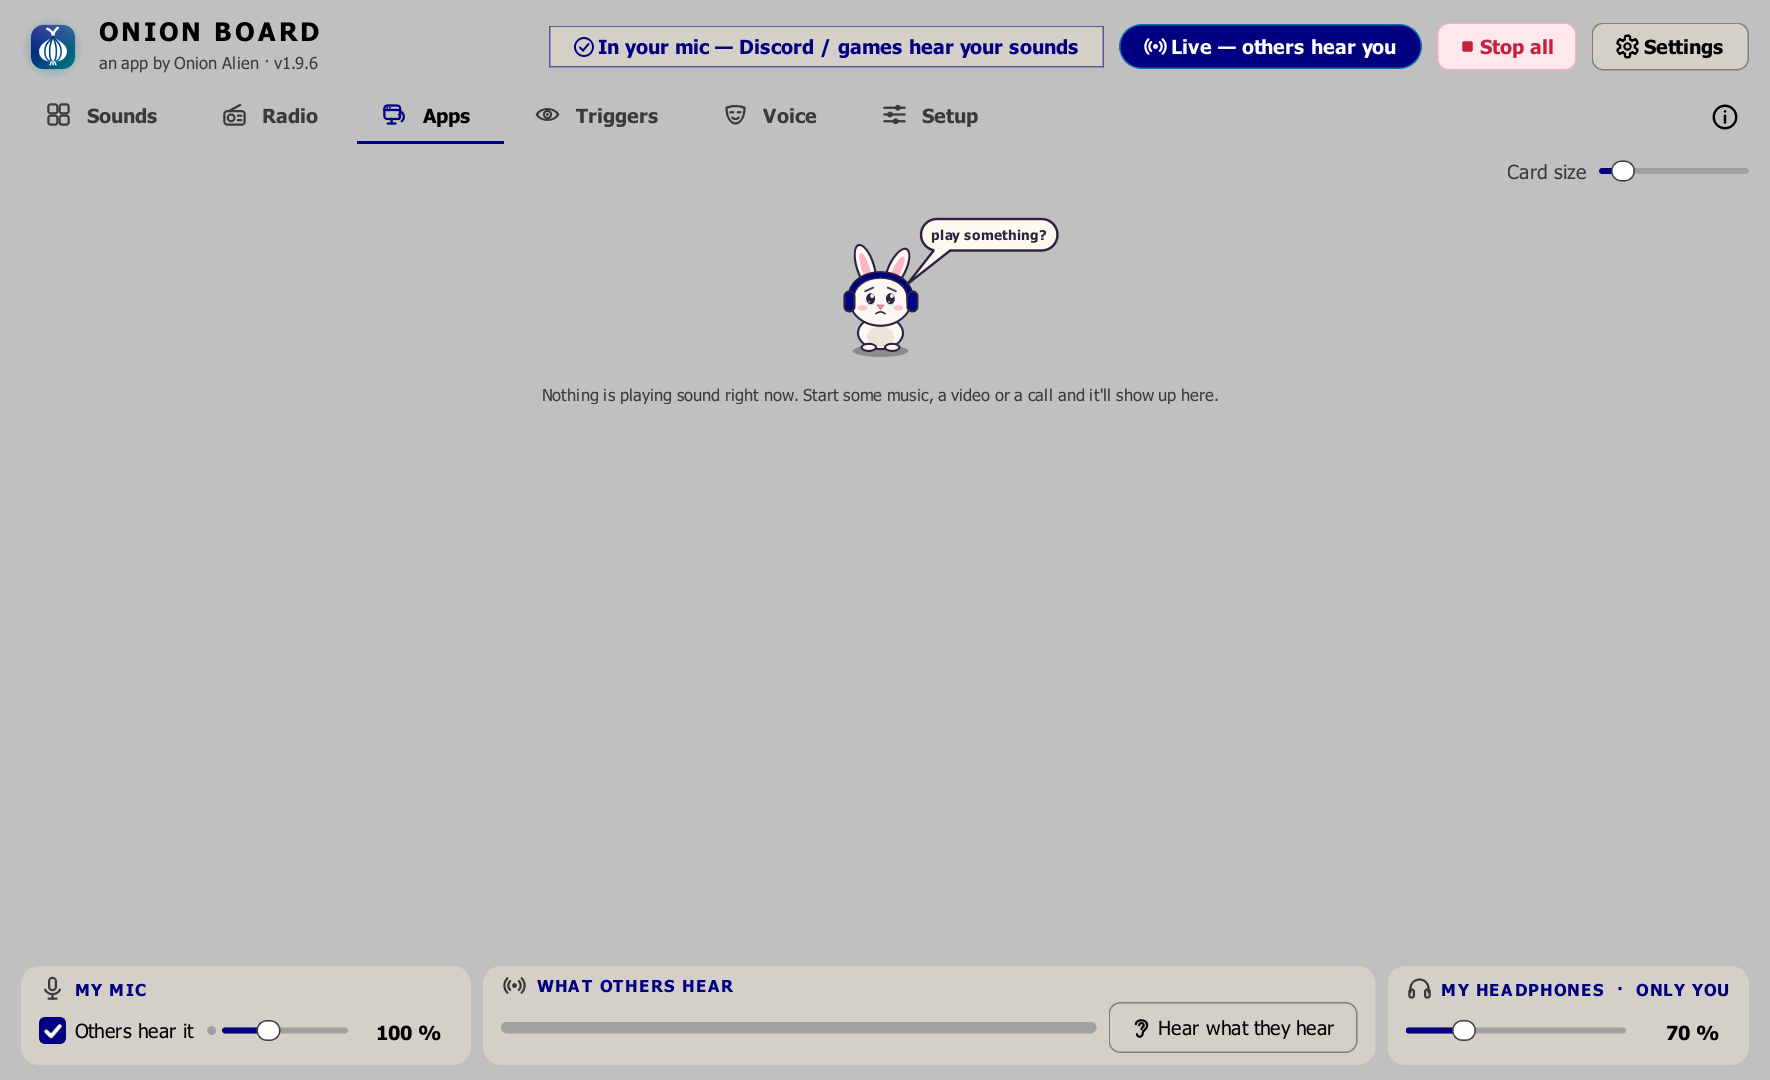
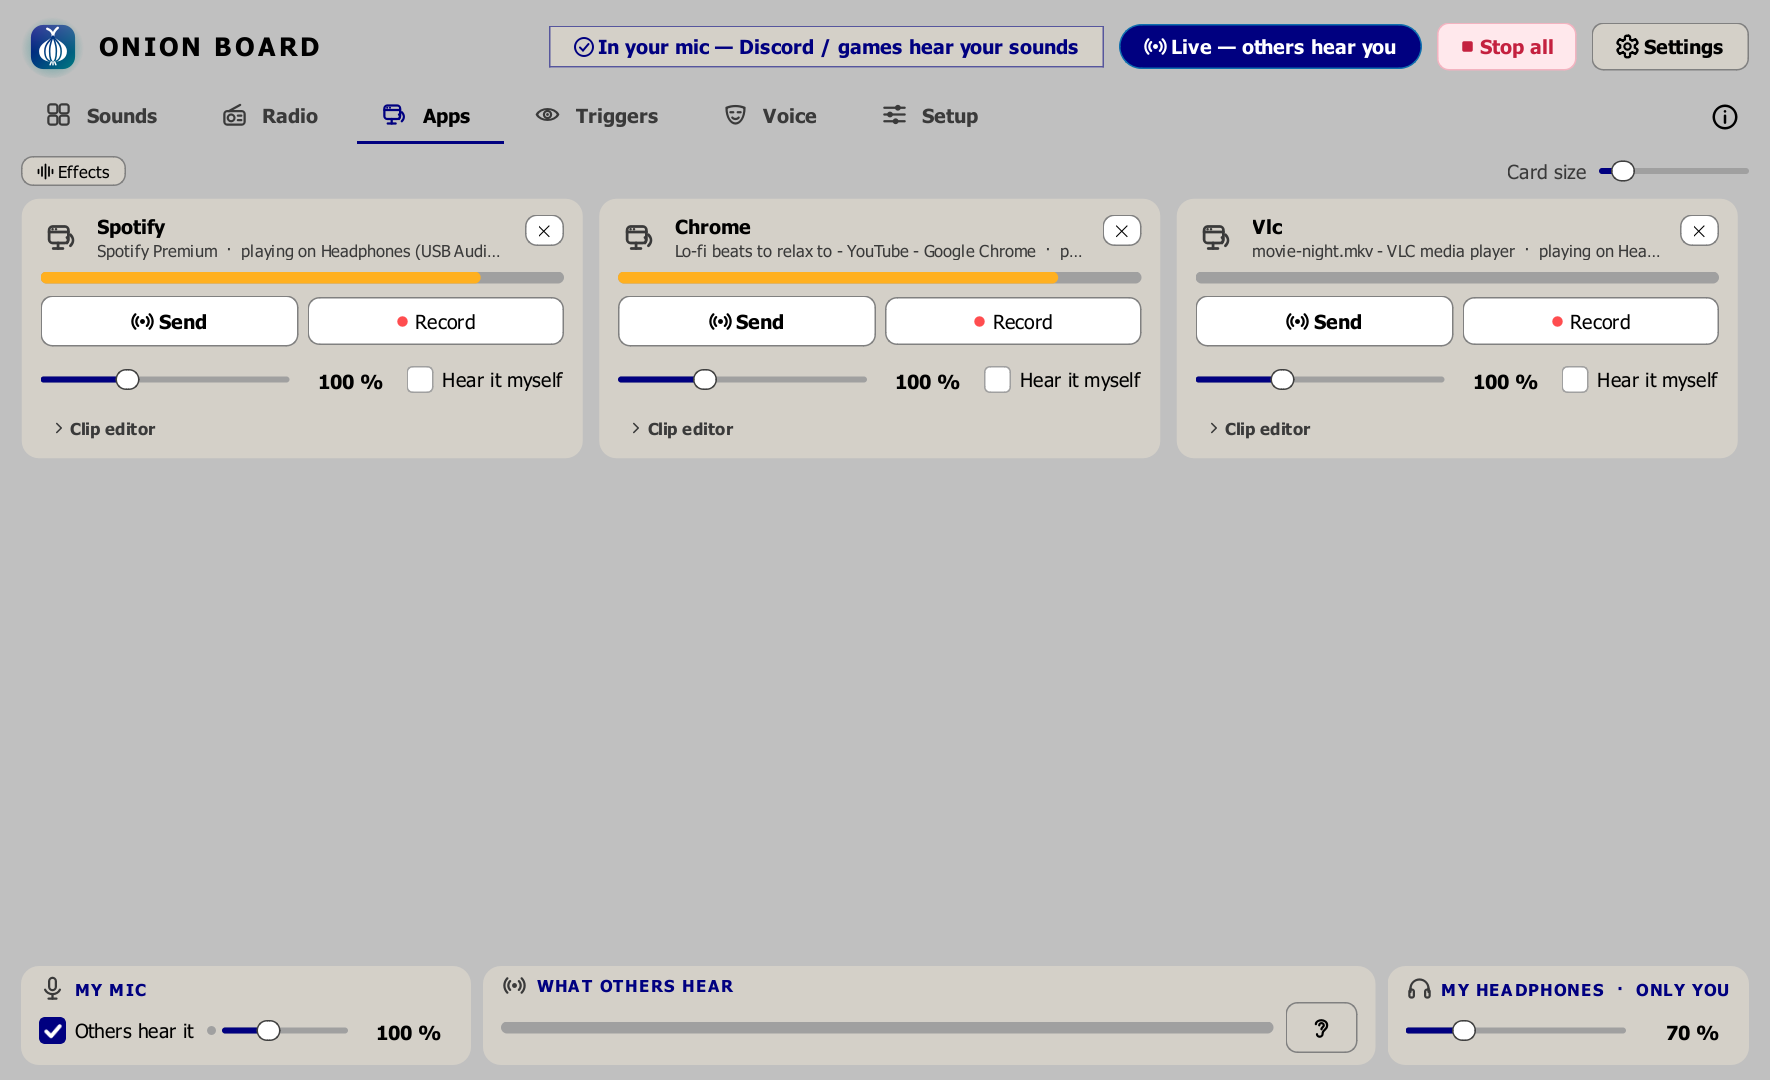
Docs: 1.9.22 release line, VirusTotal scan (68/68 clean), fresh screenshots
The README, website and guide pages showed 1.9.20 and pictures from around 1.9.6.
screenshots.py had fallen behind the app: the fake program list now takes
list_apps' arguments, and the Triggers tab is loaded before it's photographed (the
add-on loads lazily now).

diff --git a/docs/index.html b/docs/index.html
@@ -7,7 +7,7 @@
 <meta name="description" content="Free Windows soundboard: play sounds into Discord and games through your mic. In-game hotkeys, an overlay, effects, a voice changer, text-to-speech, instant replay, and screen triggers that play a sound when something shows up, like YOU DIED.">
 <meta property="og:title" content="Onion Board: free soundboard for Discord and games">
 <meta property="og:description" content="Play sounds through your mic in Discord and games. Voice changer, text-to-speech, and screen triggers that play a sound when you die.">
-<meta property="og:image" content="https://onion-alien.github.io/onion-board/screenshots/sounds.png?v=5d4d4efc">
+<meta property="og:image" content="https://onion-alien.github.io/onion-board/screenshots/sounds.png?v=9d6180e1">
 <meta property="og:type" content="website">
 <meta name="twitter:card" content="summary_large_image">
 <link rel="icon" href="favicon.ico" sizes="16x16 32x32 48x48">
@@ -22,7 +22,7 @@
  "description": "Free Windows soundboard: play sounds into Discord and games through your mic, with a voice changer, text-to-speech, in-game hotkeys and screen triggers.",
  "url": "https://onion-alien.github.io/onion-board/",
  "downloadUrl": "https://github.com/Onion-Alien/onion-board/releases/latest/download/OnionBoardSetup.exe",
- "screenshot": "https://onion-alien.github.io/onion-board/screenshots/sounds.png?v=5d4d4efc",
+ "screenshot": "https://onion-alien.github.io/onion-board/screenshots/sounds.png?v=9d6180e1",
  "offers": {"@type": "Offer", "price": "0", "priceCurrency": "USD"}}
 </script>
 <style>
@@ -134,11 +134,11 @@
       your friends in Discord or your game hear it through your mic.</p>
     <a class="dl" href="https://github.com/Onion-Alien/onion-board/releases/latest/download/OnionBoardSetup.exe" data-goatcounter-click="download-home-top">⬇ Download for Windows</a>
     <!-- release -->
-    <p class="small">Version 1.9.20 · Windows 10 / 11 · free, no account, no ads, anonymous usage count you can switch off<br>
-      <a href="https://www.virustotal.com/gui/file/8093c89458b7ecfcccd5a4122b1ae0ce53488394f59aa388e06b69c371783b1a">VirusTotal: 69 of 69 clean</a> ·
+    <p class="small">Version 1.9.22 · Windows 10 / 11 · free, no account, no ads, anonymous usage count you can switch off<br>
+      <a href="https://www.virustotal.com/gui/file/4c873ef6a062379d4a35307041f09d009a6670a821d5a23e518ef452f2518283">VirusTotal: 68 of 68 clean</a> ·
       <a href="https://github.com/Onion-Alien/onion-board/releases/latest">what's new</a></p>
     <!-- /release -->
-    <div class="stage3d"><img class="hero" src="screenshots/sounds.png?v=5d4d4efc" width="1770" height="1080" alt="Onion Board's sound pads"></div>
+    <div class="stage3d"><img class="hero" src="screenshots/sounds.png?v=9d6180e1" width="1770" height="1080" alt="Onion Board's sound pads"></div>
   </header>
 
   <h2>What it does</h2>
@@ -157,10 +157,10 @@
 
   <h2>A closer look</h2>
   <div class="grid shots reveal">
-    <figure><img src="screenshots/voice.png?v=c7aa5887" alt="The Voice tab" loading="lazy"><figcaption>Voice changer and text-to-speech</figcaption></figure>
-    <figure><img src="screenshots/triggers.png?v=74911d4a" alt="The Triggers tab" loading="lazy"><figcaption>Triggers: a sound when something shows up in your game</figcaption></figure>
-    <figure><img src="screenshots/apps.png?v=8fc8871d" alt="The Apps tab" loading="lazy"><figcaption>Send one program's sound to your friends</figcaption></figure>
-    <figure><img src="screenshots/setup.png?v=b52be90b" alt="The Setup tab" loading="lazy"><figcaption>Setup shows at a glance whether they can hear you</figcaption></figure>
+    <figure><img src="screenshots/voice.png?v=51808369" alt="The Voice tab" loading="lazy"><figcaption>Voice changer and text-to-speech</figcaption></figure>
+    <figure><img src="screenshots/triggers.png?v=14e7c16b" alt="The Triggers tab" loading="lazy"><figcaption>Triggers: a sound when something shows up in your game</figcaption></figure>
+    <figure><img src="screenshots/apps.png?v=3c458fb0" alt="The Apps tab" loading="lazy"><figcaption>Send one program's sound to your friends</figcaption></figure>
+    <figure><img src="screenshots/setup.png?v=d1c585c2" alt="The Setup tab" loading="lazy"><figcaption>Setup shows at a glance whether they can hear you</figcaption></figure>
   </div>
 
   <h2>Get started</h2>

diff --git a/docs/soundboard-without-virtual-cable/index.html b/docs/soundboard-without-virtual-cable/index.html
@@ -7,7 +7,7 @@
 <meta name="description" content="Play sounds through your mic on Windows without installing VB-Cable or Voicemeeter. Onion Board is a free soundboard that puts sounds straight into the mic Discord and games already use.">
 <meta property="og:title" content="A soundboard that needs no virtual cable">
 <meta property="og:description" content="Free Windows soundboard: sounds go straight into the mic you already use. No VB-Cable, no Voicemeeter, nothing to pick in Discord.">
-<meta property="og:image" content="https://onion-alien.github.io/onion-board/screenshots/setup.png?v=b52be90b">
+<meta property="og:image" content="https://onion-alien.github.io/onion-board/screenshots/setup.png?v=d1c585c2">
 <meta property="og:type" content="article">
 <meta name="twitter:card" content="summary_large_image">
 <link rel="icon" href="../favicon.ico" sizes="16x16 32x32 48x48">
@@ -45,7 +45,7 @@
   <p>One click, <b>Put my sounds straight into my mic</b>, adds a small audio effect to your mic in
     Windows' own audio engine (Windows asks for permission once). From then on, anything that listens
     to your mic hears your sounds mixed in. Nothing to pick in Discord, nothing to change in your games.</p>
-  <img src="../screenshots/setup.png?v=b52be90b" alt="Onion Board's Setup tab showing the sounds going into the mic" loading="lazy" width="1100" height="736">
+  <img src="../screenshots/setup.png?v=d1c585c2" alt="Onion Board's Setup tab showing the sounds going into the mic" loading="lazy" width="1100" height="736">
   <p>It backs up your mic's settings first, and puts them back when you switch it off or uninstall.</p>
 
   <h2>Setup, step by step</h2>

diff --git a/docs/discord-soundboard/index.html b/docs/discord-soundboard/index.html
@@ -7,7 +7,7 @@
 <meta name="description" content="Play any sound or song through your mic in Discord voice chat, with hotkeys that work in-game. Free Windows soundboard, no Nitro, no length limit. Step-by-step setup.">
 <meta property="og:title" content="How to play sounds through your mic in Discord">
 <meta property="og:description" content="Free Windows soundboard: any sound, any length, hotkeys that work in-game. Setup takes two minutes.">
-<meta property="og:image" content="https://onion-alien.github.io/onion-board/screenshots/sounds.png?v=5d4d4efc">
+<meta property="og:image" content="https://onion-alien.github.io/onion-board/screenshots/sounds.png?v=9d6180e1">
 <meta property="og:type" content="article">
 <meta name="twitter:card" content="summary_large_image">
 <link rel="icon" href="../favicon.ico" sizes="16x16 32x32 48x48">
@@ -56,7 +56,7 @@
       or use push-to-talk. Onion Board reads these settings and shows a bar when one is in the way.</li>
     <li>Drag sound files onto the Onion Board window and double-click a pad. Everyone in the call hears it.</li>
   </ol>
-  <img src="../screenshots/sounds.png?v=5d4d4efc" alt="Onion Board's sound pads" loading="lazy" width="1100" height="736">
+  <img src="../screenshots/sounds.png?v=9d6180e1" alt="Onion Board's sound pads" loading="lazy" width="1100" height="736">
 
   <h2>Play sounds while you're in a game</h2>
   <p>Right-click a pad and give it a <b>hotkey</b>. Hotkeys work even while a fullscreen game has

diff --git a/docs/play-sounds-through-mic/index.html b/docs/play-sounds-through-mic/index.html
@@ -7,7 +7,7 @@
 <meta name="description" content="How to play sounds and music through your microphone on Windows so others hear them in Discord, games and calls, without a virtual cable. Free, step by step.">
 <meta property="og:title" content="How to play sounds through your mic">
 <meta property="og:description" content="Play sounds and music through your mic on Windows, free, no virtual cable.">
-<meta property="og:image" content="https://onion-alien.github.io/onion-board/screenshots/setup.png?v=b52be90b">
+<meta property="og:image" content="https://onion-alien.github.io/onion-board/screenshots/setup.png?v=d1c585c2">
 <meta property="og:type" content="article">
 <meta name="twitter:card" content="summary_large_image">
 <link rel="icon" href="../favicon.ico" sizes="16x16 32x32 48x48">
@@ -33,7 +33,7 @@
   <p>Install a soundboard that mixes sounds into your mic. Onion Board does it with one click and no
     virtual cable: it adds a small audio effect to your mic in Windows' own audio engine, so every app
     that listens to your mic hears your voice and your sounds together.</p>
-  <img src="../screenshots/setup.png?v=b52be90b" alt="Onion Board's Setup tab showing sounds going into the mic" loading="lazy" width="1100" height="736">
+  <img src="../screenshots/setup.png?v=d1c585c2" alt="Onion Board's Setup tab showing sounds going into the mic" loading="lazy" width="1100" height="736">
 
   <h2>Step by step</h2>
   <ol>

diff --git a/docs/free-soundpad-alternative/index.html b/docs/free-soundpad-alternative/index.html
@@ -7,7 +7,7 @@
 <meta name="description" content="Looking for a free alternative to Soundpad or Voicemod? Onion Board is a free Windows soundboard with a voice changer, text-to-speech, in-game hotkeys and screen triggers. No account, no ads.">
 <meta property="og:title" content="A free Soundpad and Voicemod alternative">
 <meta property="og:description" content="Free Windows soundboard with a voice changer, text-to-speech, in-game hotkeys and screen triggers.">
-<meta property="og:image" content="https://onion-alien.github.io/onion-board/screenshots/sounds.png?v=5d4d4efc">
+<meta property="og:image" content="https://onion-alien.github.io/onion-board/screenshots/sounds.png?v=9d6180e1">
 <meta property="og:type" content="article">
 <meta name="twitter:card" content="summary_large_image">
 <link rel="icon" href="../favicon.ico" sizes="16x16 32x32 48x48">
@@ -69,7 +69,7 @@
     banner or a kill icon, and it plays a sound the moment that picture shows up. Set a sad
     trombone for every death and never press a key. It watches the game's own window, works
     behind other windows, and runs entirely on your PC.</p>
-  <img src="../screenshots/triggers.png?v=74911d4a" alt="Onion Board's Triggers tab" loading="lazy" width="1100" height="736">
+  <img src="../screenshots/triggers.png?v=14e7c16b" alt="Onion Board's Triggers tab" loading="lazy" width="1100" height="736">
 
   <h2>Switching over</h2>
   <ol>

diff --git a/docs/resanance-alternative/index.html b/docs/resanance-alternative/index.html
@@ -7,7 +7,7 @@
 <meta name="description" content="Looking for a Resanance alternative? Onion Board is a free Windows soundboard that imports your Resanance sounds and hotkeys in one click and plays them through your mic with no virtual cable.">
 <meta property="og:title" content="A Resanance alternative that imports your board">
 <meta property="og:description" content="Free Windows soundboard: your Resanance sounds and hotkeys come over in one click.">
-<meta property="og:image" content="https://onion-alien.github.io/onion-board/screenshots/sounds.png?v=5d4d4efc">
+<meta property="og:image" content="https://onion-alien.github.io/onion-board/screenshots/sounds.png?v=9d6180e1">
 <meta property="og:type" content="article">
 <meta name="twitter:card" content="summary_large_image">
 <link rel="icon" href="../favicon.ico" sizes="16x16 32x32 48x48">
@@ -45,7 +45,7 @@
     <li><b>Add sounds from search:</b> YouTube, SoundCloud and Myinstants, one click to keep one as a pad.</li>
     <li><b>Screen triggers:</b> play a sound when something shows up in your game, like "YOU DIED".</li>
   </ul>
-  <img src="../screenshots/sounds.png?v=5d4d4efc" alt="Onion Board's Sounds tab with pads" loading="lazy" width="1100" height="736">
+  <img src="../screenshots/sounds.png?v=9d6180e1" alt="Onion Board's Sounds tab with pads" loading="lazy" width="1100" height="736">
 
   <h2>Switching over</h2>
   <ol>

diff --git a/docs/exp-soundboard-alternative/index.html b/docs/exp-soundboard-alternative/index.html
@@ -7,7 +7,7 @@
 <meta name="description" content="Looking for an EXP Soundboard alternative? Onion Board is a free Windows soundboard that imports your EXP sounds and hotkeys in one click, needs no Java and no virtual cable.">
 <meta property="og:title" content="An EXP Soundboard alternative that imports your board">
 <meta property="og:description" content="Free Windows soundboard: no Java, no virtual cable, your EXP board comes over in one click.">
-<meta property="og:image" content="https://onion-alien.github.io/onion-board/screenshots/sounds.png?v=5d4d4efc">
+<meta property="og:image" content="https://onion-alien.github.io/onion-board/screenshots/sounds.png?v=9d6180e1">
 <meta property="og:type" content="article">
 <meta name="twitter:card" content="summary_large_image">
 <link rel="icon" href="../favicon.ico" sizes="16x16 32x32 48x48">
@@ -44,7 +44,7 @@
     <li><b>Add sounds from search:</b> YouTube, SoundCloud and Myinstants.</li>
     <li><b>Updates itself</b> when a new version is out (you click Update now).</li>
   </ul>
-  <img src="../screenshots/sounds.png?v=5d4d4efc" alt="Onion Board's Sounds tab with pads" loading="lazy" width="1100" height="736">
+  <img src="../screenshots/sounds.png?v=9d6180e1" alt="Onion Board's Sounds tab with pads" loading="lazy" width="1100" height="736">
 
   <h2>Switching over</h2>
   <ol>

diff --git a/docs/discord-text-to-speech-voice-chat/index.html b/docs/discord-text-to-speech-voice-chat/index.html
@@ -7,7 +7,7 @@
 <meta name="description" content="Type a line and have it spoken in Discord voice chat or in-game voice. Free Windows app: Windows voices or your own (Kokoro, Piper), voice effects, and live speech in 33 languages.">
 <meta property="og:title" content="Text-to-speech in Discord voice chat">
 <meta property="og:description" content="Type a line, everyone in the voice channel hears it. Free, Windows.">
-<meta property="og:image" content="https://onion-alien.github.io/onion-board/screenshots/voice.png?v=c7aa5887">
+<meta property="og:image" content="https://onion-alien.github.io/onion-board/screenshots/voice.png?v=51808369">
 <meta property="og:type" content="article">
 <meta name="twitter:card" content="summary_large_image">
 <link rel="icon" href="../favicon.ico" sizes="16x16 32x32 48x48">
@@ -38,7 +38,7 @@
       press <b>Enter</b>. It's spoken in the voice you picked, into your mic.</li>
     <li><b>Save as sound</b> keeps a line as a pad, so you can give it a hotkey and play it in-game.</li>
   </ol>
-  <img src="../screenshots/voice.png?v=c7aa5887" alt="Onion Board's Voice tab with text-to-speech" loading="lazy" width="1100" height="736">
+  <img src="../screenshots/voice.png?v=51808369" alt="Onion Board's Voice tab with text-to-speech" loading="lazy" width="1100" height="736">
 
   <h2>Voices</h2>
   <ul>

diff --git a/docs/voicemod-alternative/index.html b/docs/voicemod-alternative/index.html
@@ -7,7 +7,7 @@
 <meta name="description" content="A free alternative to Voicemod for Windows: a soundboard and a live voice changer with 21 voices, optional AI voices, text-to-speech and in-game hotkeys. No account, no subscription.">
 <meta property="og:title" content="A free Voicemod alternative">
 <meta property="og:description" content="Soundboard + live voice changer for Discord and games. Free, no account.">
-<meta property="og:image" content="https://onion-alien.github.io/onion-board/screenshots/voice.png?v=c7aa5887">
+<meta property="og:image" content="https://onion-alien.github.io/onion-board/screenshots/voice.png?v=51808369">
 <meta property="og:type" content="article">
 <meta name="twitter:card" content="summary_large_image">
 <link rel="icon" href="../favicon.ico" sizes="16x16 32x32 48x48">
@@ -43,7 +43,7 @@
     <tr><td>Account needed</td><td>No</td></tr>
     <tr><td>Price</td><td>Free</td></tr>
   </table>
-  <img src="../screenshots/voice.png?v=c7aa5887" alt="Onion Board's Voice tab with the voice changer" loading="lazy" width="1100" height="736">
+  <img src="../screenshots/voice.png?v=51808369" alt="Onion Board's Voice tab with the voice changer" loading="lazy" width="1100" height="736">
 
   <h2>Set up in two minutes</h2>
   <ol>

diff --git a/docs/zoom-google-meet-soundboard/index.html b/docs/zoom-google-meet-soundboard/index.html
@@ -7,7 +7,7 @@
 <meta name="description" content="Play sounds, music and text-to-speech in Zoom and Google Meet calls on Windows. Free soundboard, plus the one setting in each app that stops your sounds being filtered out.">
 <meta property="og:title" content="A soundboard for Zoom and Google Meet">
 <meta property="og:description" content="Play sounds in Zoom and Meet calls, and the setting that stops them being filtered out.">
-<meta property="og:image" content="https://onion-alien.github.io/onion-board/screenshots/sounds.png?v=5d4d4efc">
+<meta property="og:image" content="https://onion-alien.github.io/onion-board/screenshots/sounds.png?v=9d6180e1">
 <meta property="og:type" content="article">
 <meta name="twitter:card" content="summary_large_image">
 <link rel="icon" href="../favicon.ico" sizes="16x16 32x32 48x48">

diff --git a/scripts/screenshots.py b/scripts/screenshots.py
@@ -104,7 +104,7 @@ def fake_machine(tmp: Path):
     engine.Engine.effect_alive = lambda self: True
     engine.Engine.direct_apps = lambda self: 2
     engine.Engine.set_tap_device = lambda self, n: setattr(self, "tap_name", n)
-    appaudio.list_apps = lambda: [
+    appaudio.list_apps = lambda *a, **k: [
         appaudio.App(pid=1000 + i, exe=exe, title=title, active=on, peak=0.4 if on else 0.0,
                      devices=[OUTS[1]], session_pids={1000 + i})
         for i, (exe, title, on) in enumerate(PROGRAMS)]
@@ -256,6 +256,7 @@ def main():
         spin()
         save(w, name)
     if watch:
+        w.triggers.ensure_loaded()        # the add-on loads when its tab is first shown
         tr = w.triggers.panel.panel       # the add-on's triggers page
         tr.set_watching(True)             # Watcher.start is a no-op (install_onion_watch)
         tr.poll.stop()                    # show made-up live matches instead

diff --git a/README.md b/README.md
@@ -7,18 +7,18 @@ Or send it to your stream, or keep it to your own headphones.
 ## ⬇ [Download Onion Board for Windows](../../releases/latest/download/OnionBoardSetup.exe)
 
 <!-- release -->
-Version **1.9.20** · Windows 10 / 11 · free, no account, no ads, anonymous usage count you can switch off ·
-[VirusTotal: 69 of 69 clean](https://www.virustotal.com/gui/file/8093c89458b7ecfcccd5a4122b1ae0ce53488394f59aa388e06b69c371783b1a) ·
+Version **1.9.22** · Windows 10 / 11 · free, no account, no ads, anonymous usage count you can switch off ·
+[VirusTotal: 68 of 68 clean](https://www.virustotal.com/gui/file/4c873ef6a062379d4a35307041f09d009a6670a821d5a23e518ef452f2518283) ·
 [what's new](CHANGELOG.md)
 <!-- /release -->
 
-![Onion Board's sound pads](docs/screenshots/sounds.png?v=5d4d4efc)
+![Onion Board's sound pads](docs/screenshots/sounds.png?v=9d6180e1)
 
 | | |
 |---|---|
-| ![Voice changer and text-to-speech](docs/screenshots/voice.png?v=c7aa5887) | ![Screen triggers](docs/screenshots/triggers.png?v=74911d4a) |
+| ![Voice changer and text-to-speech](docs/screenshots/voice.png?v=51808369) | ![Screen triggers](docs/screenshots/triggers.png?v=14e7c16b) |
 | **Voice**: change your voice live, or type and a computer voice says it | **Triggers**: a sound the moment "YOU DIED" shows up in your game |
-| ![Send a program's sound](docs/screenshots/apps.png?v=8fc8871d) | ![Setup at a glance](docs/screenshots/setup.png?v=b52be90b) |
+| ![Send a program's sound](docs/screenshots/apps.png?v=3c458fb0) | ![Setup at a glance](docs/screenshots/setup.png?v=d1c585c2) |
 | **Apps**: send one program's sound (music, a video) to your friends | **Setup**: one look tells you whether others can hear you |
 
 ## What it does
